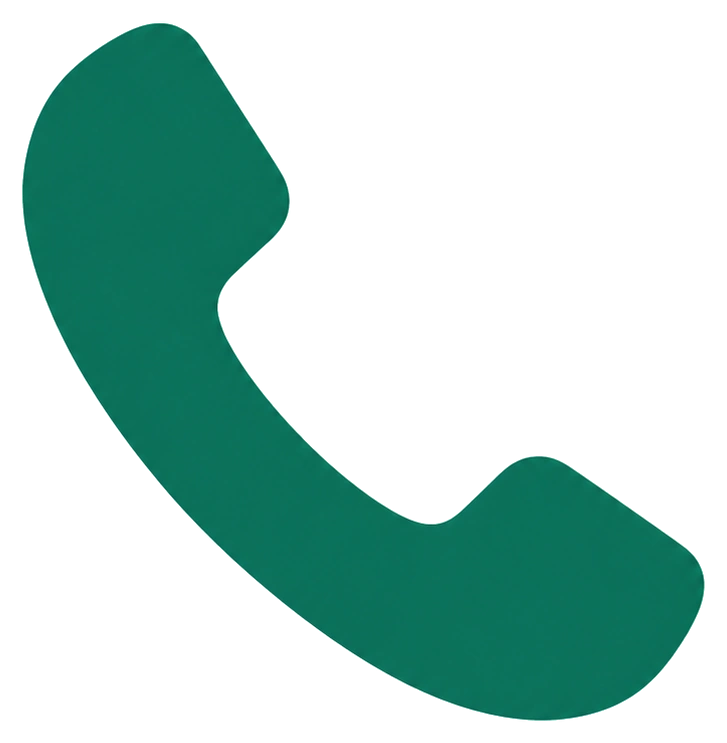
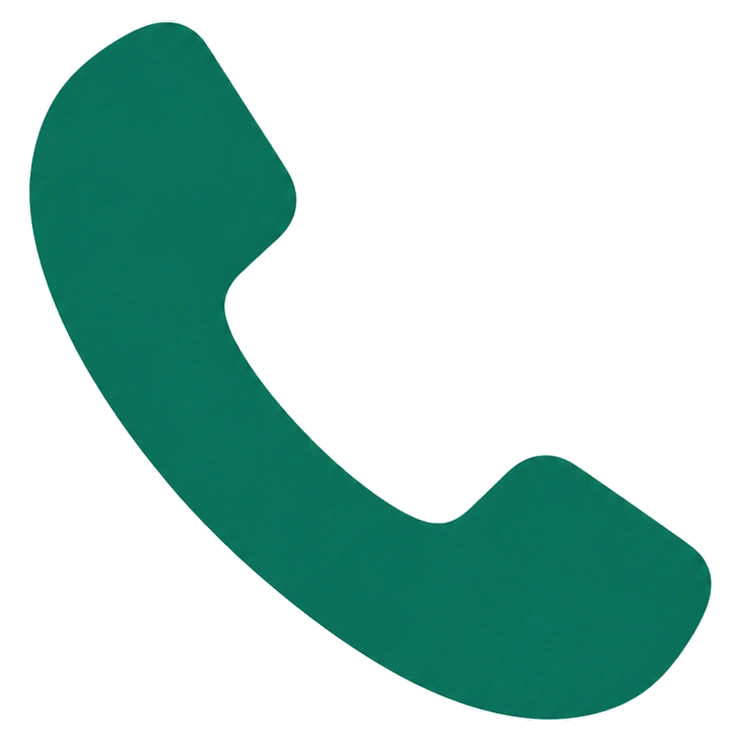
Add files via upload

diff --git a/css/style.css b/css/style.css
@@ -67,7 +67,6 @@ img {
 .navbar-inner {
   display: flex;
   align-items: center;
-  justify-content: space-between;
   max-width: 1160px;
   margin: 0 auto;
   padding: 1.15rem 0;
@@ -88,6 +87,7 @@ img {
   font-size: 13.5px;
   color: var(--ink-muted);
   white-space: nowrap;
+  margin-right: 33px;
 }
 
 .lang-link-mobile {
@@ -101,8 +101,8 @@ img {
 .nav-group {
   display: flex;
   align-items: center;
-  gap: 28px;
   flex-shrink: 0;
+  margin-left: 255px;
 }
 
 .nav-cta {
@@ -115,6 +115,7 @@ img {
   align-items: center;
   gap: 14px;
   flex-shrink: 0;
+  margin-right: 28px;
 }
 
 .nav-socials .icon-link {
@@ -122,8 +123,9 @@ img {
 }
 
 .nav-socials .icon-link img {
-  height: 16px;
-  width: auto;
+  width: 18px;
+  height: 18px;
+  object-fit: contain;
 }
 
 .nav-toggle {
@@ -147,6 +149,7 @@ img {
   gap: 6px;
   font-size: 13px;
   white-space: nowrap;
+  margin-right: 28px;
 }
 
 .lang-current {